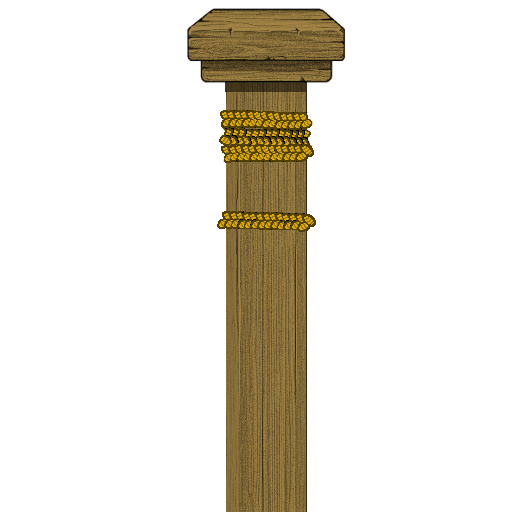
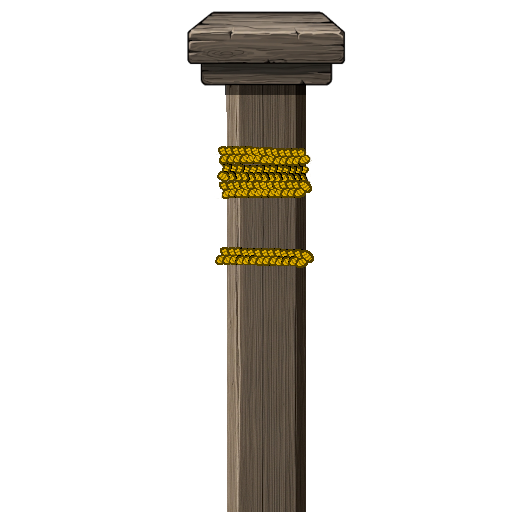
Create hashira base asset

Changed region(s): [[0.3438, 0.0, 0.6875, 1.0]]

diff --git a/src/assets/room_devices/hashira_base/hashira_base.asset.ts b/src/assets/room_devices/hashira_base/hashira_base.asset.ts
@@ -1,0 +1,72 @@
+DefineRoomDeviceAsset({
+	name: 'Pillar (Base)',
+	size: 'huge',
+	preview: 'preview.png',
+	colorization: {
+		hashira: {
+			name: 'Pillar (Base)',
+			default: '#AC784E',
+		},
+	},
+	staticAttributes: ['Floor'],
+	slots: {},
+	modules: {
+		model: {
+			type: 'typed',
+			name: 'Model',
+			staticConfig: { slotName: null },
+			variants: [
+				{
+					id: 'basic',
+					name: 'Basic',
+					default: true,
+				},
+				{
+					id: 'extra_base',
+					name: 'Extra Base',
+				},
+			],
+		},
+	},
+	graphicsLayers: [
+		{
+			type: 'sprite',
+			image: 'hashira_base.png',
+			colorizationKey: 'hashira',
+			offset: { x: -142, y: -180 },
+
+			imageOverrides: [
+				{
+					image: 'hashira_base_big.png',
+					condition: [
+						[
+							{
+								module: 'model',
+								operator: '=',
+								value: 'extra_base',
+							},
+						],
+					],
+				},
+			],
+		},
+	],
+	pivot: {
+		x: 0,
+		y: 0,
+	},
+	ownership: {
+		responsibleContributor: 'Shikifet <shikifet@gmail.com>',
+		credits: ['Shikifet'],
+		modificationPolicy: `Fixes and New uses, otherwise ask`,
+		reusePolicy: 'Ask first',
+		licensing: [
+			{
+				source: 'Self-Made',
+				copyrightHolder: 'Shikifet',
+				editedBy: 'Shikifet',
+				license: 'Pandora-Use-Only-v1-or-later',
+			},
+		],
+	},
+});

diff --git a/src/assets/room_devices/hashira/hashira.asset.ts b/src/assets/room_devices/hashira/hashira.asset.ts
@@ -408,15 +408,6 @@ DefineRoomDeviceAsset({
 			],
 		},
 
-		/*
-				{
-					type: 'sprite',
-					image: 'hashira_base.png',
-					colorizationKey: 'hashira',
-					offset: { x: -142, y: -180 },
-				},
-		*/
-
 		{
 			type: 'sprite',
 			image: '',
